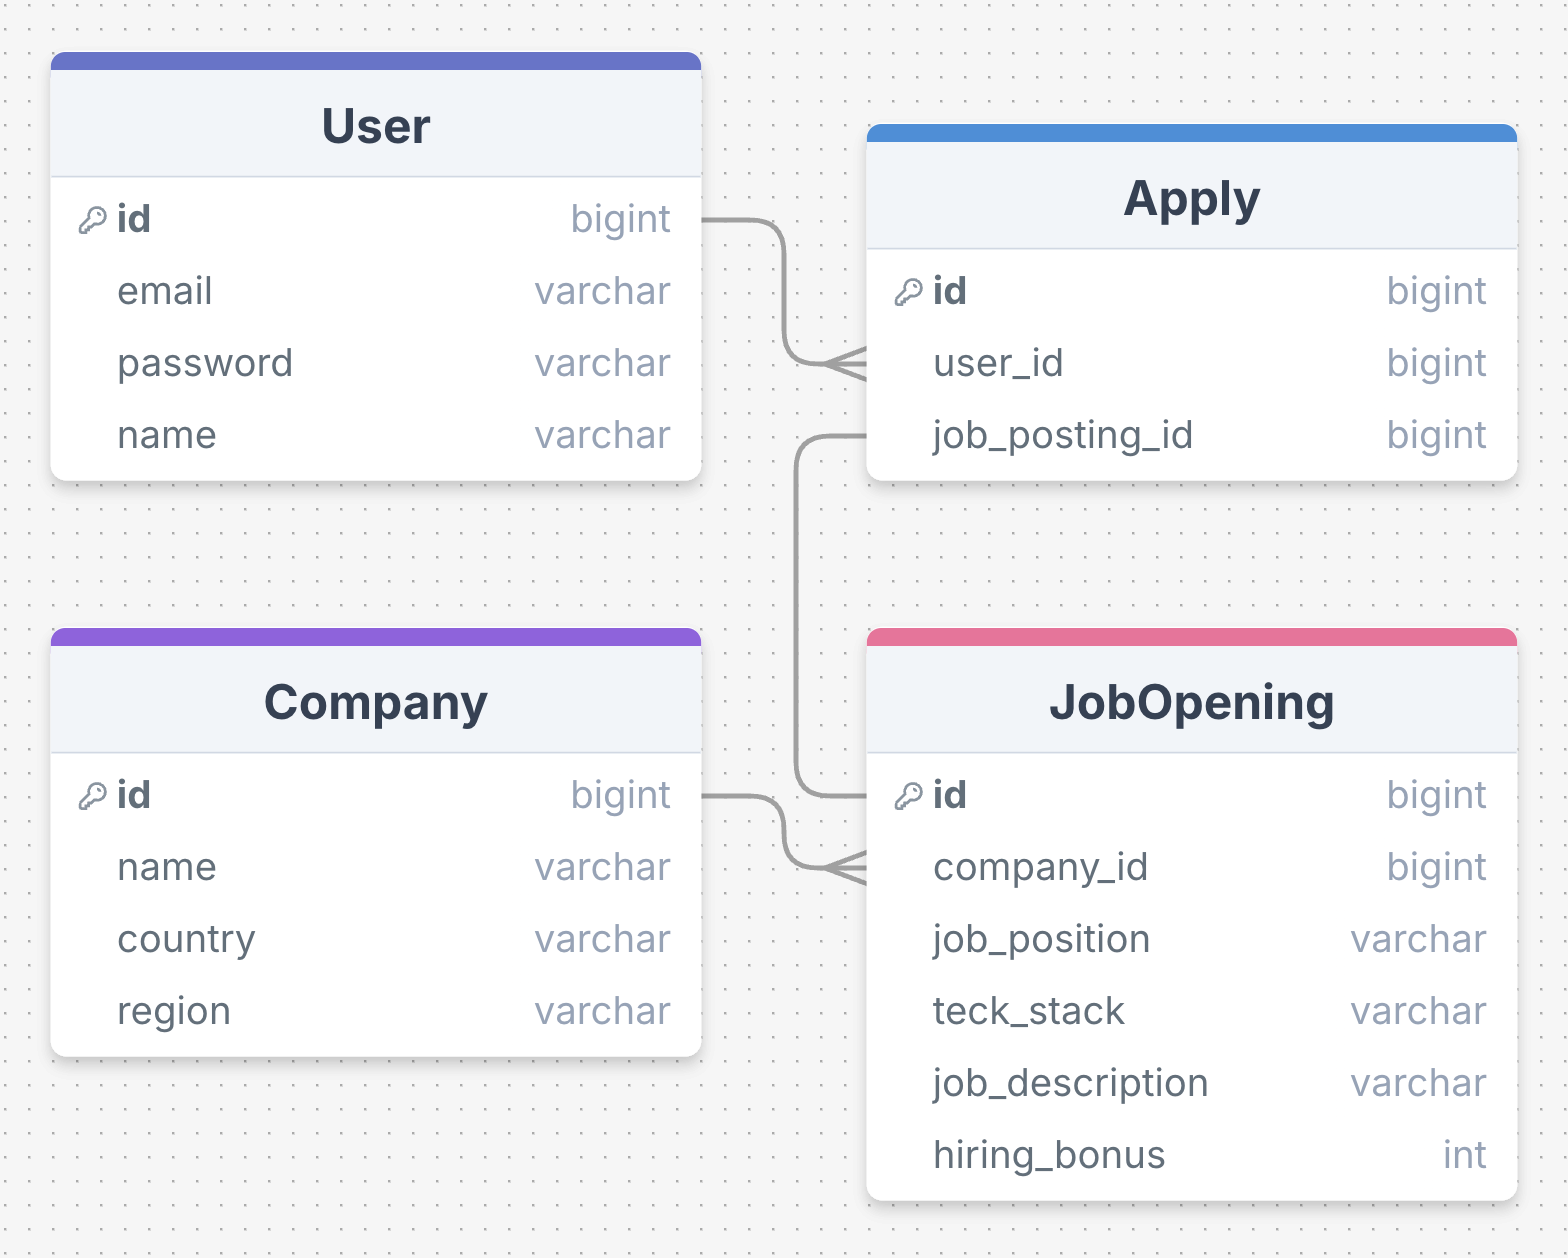
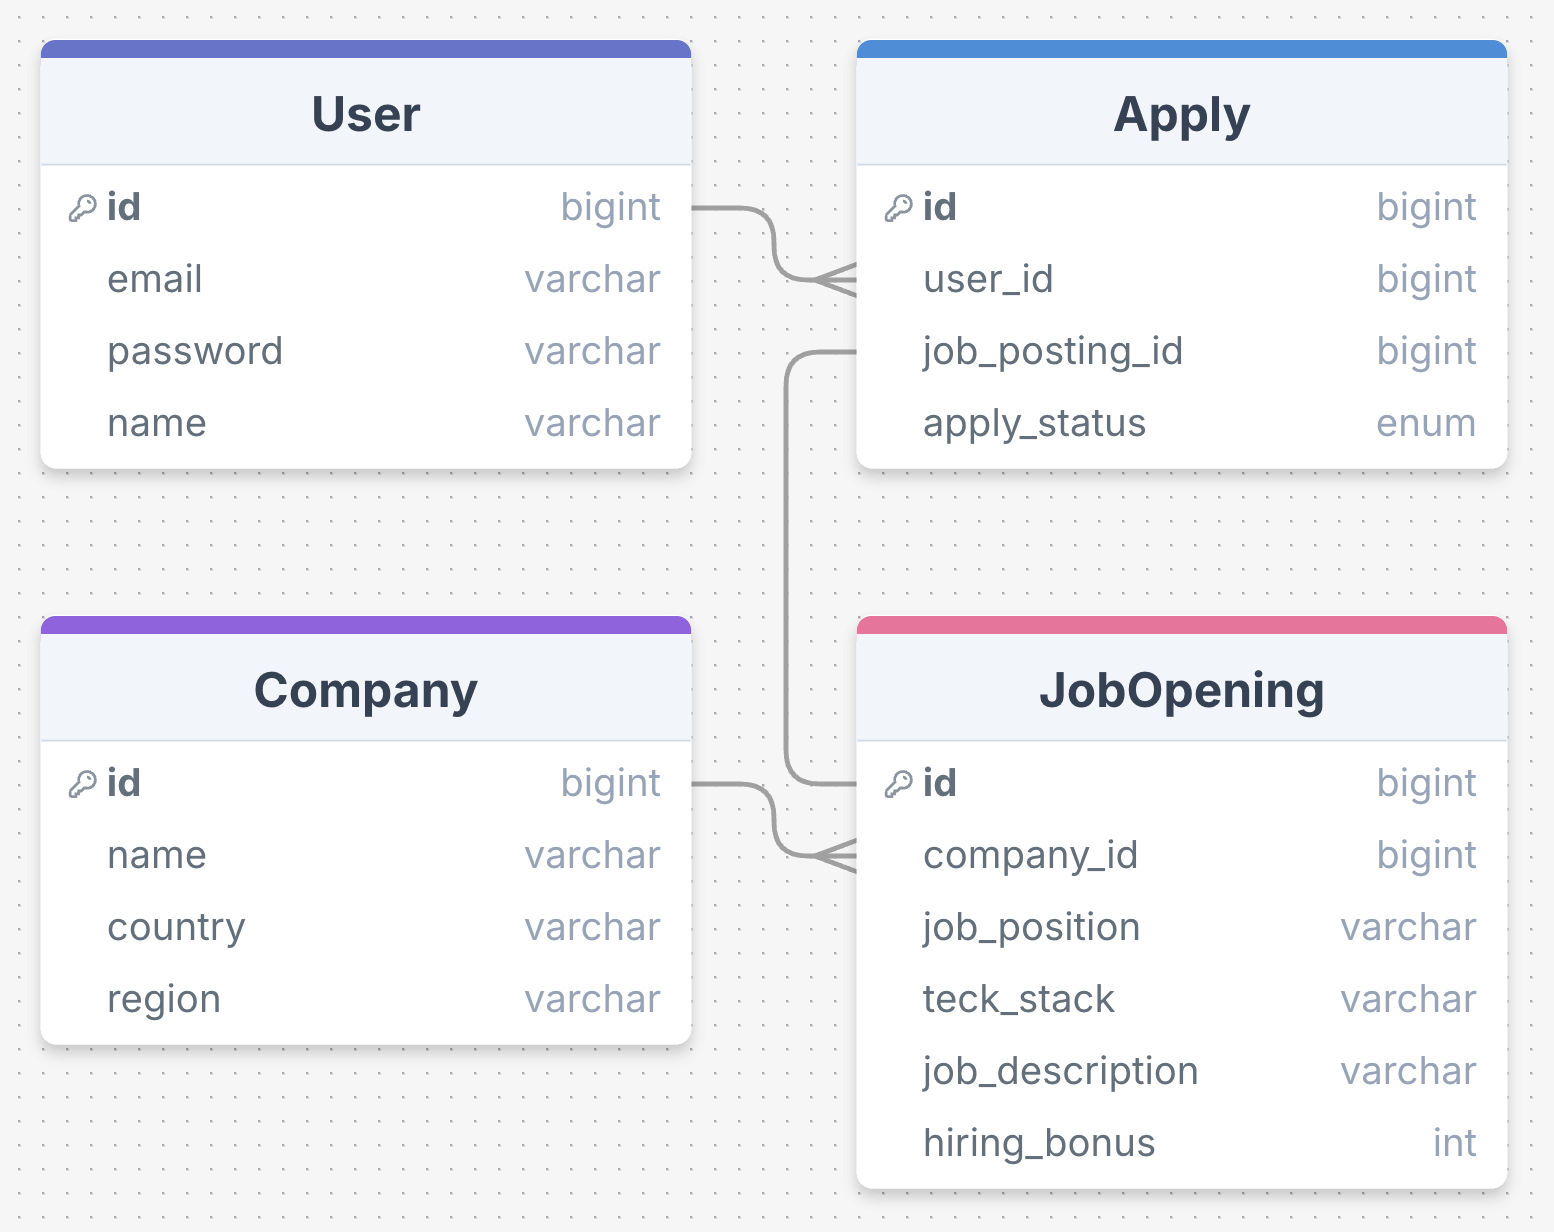
docs: README 구현사항 기입

diff --git a/README.md b/README.md
@@ -1,5 +1,7 @@
 # 원티드 프리온보딩 사전과제
 
+- 필수 요구사항과 추가적으로 선택사항(해당 회사가 올린 다른 채용공고, 채용공고 지원, 지원 상태 관리)을 구현했습니다.
+
 ## ERD
 <img src="imgs/erd.png" width="500" />
 
